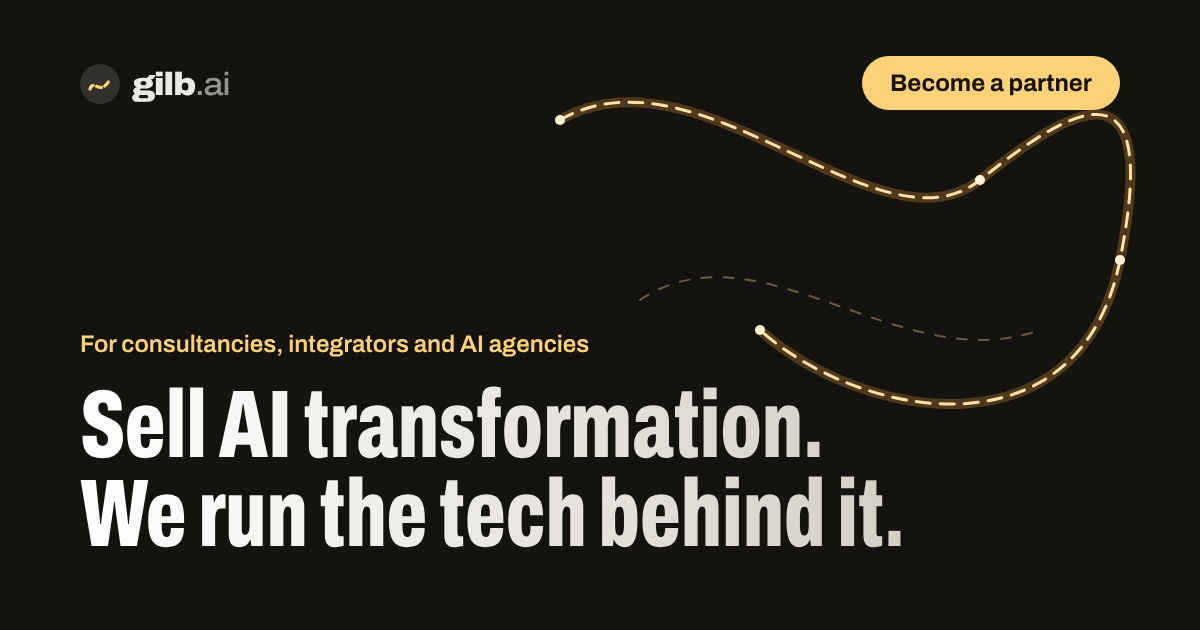
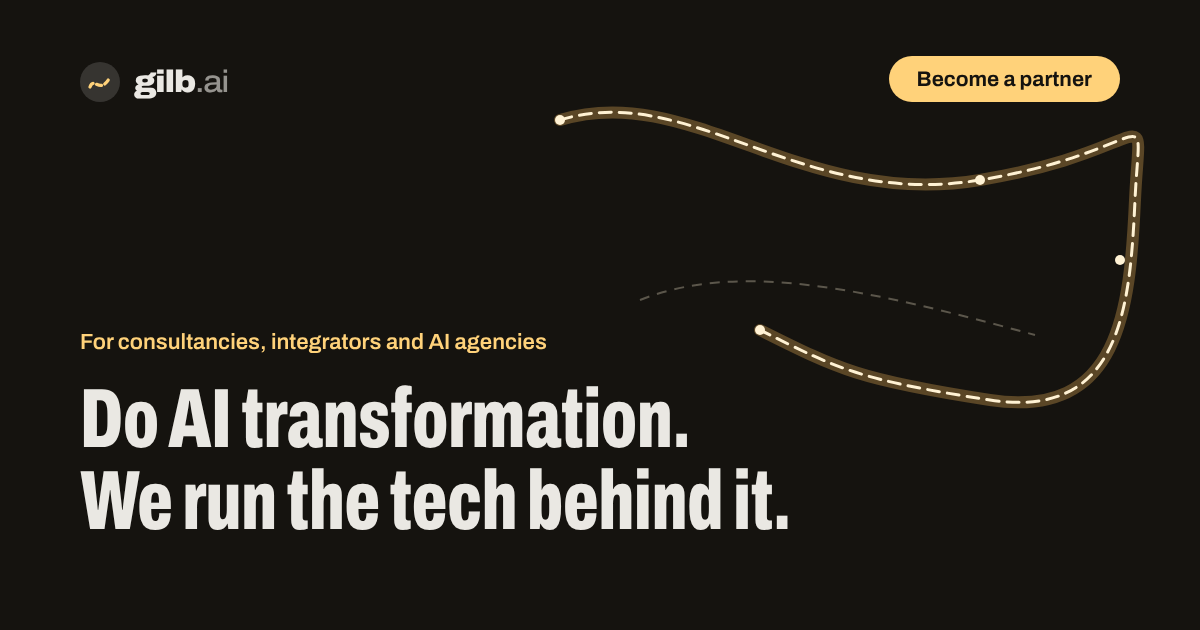
Home: headline 'Do AI transformation' (was 'Sell'), update meta and og image
Claude-Session: https://claude.ai/code/session_01SrGZP7QGAwvVCME352tcsu

diff --git a/index.html b/index.html
@@ -4,9 +4,9 @@
 <meta charset="utf-8">
 <meta name="viewport" content="width=device-width,initial-scale=1,viewport-fit=cover">
 <title>Gilb — the technical partner for AI transformation firms</title>
-<meta name="description" content="For consultancies, integrators and AI agencies. Sell AI transformation under your brand: Gilb runs discovery with Therblig and deploys and operates Company Brain. Become a partner.">
+<meta name="description" content="For consultancies, integrators and AI agencies. Do AI transformation under your brand: Gilb runs discovery with Therblig and deploys and operates Company Brain. Become a partner.">
 <link rel="canonical" href="https://gilb.ai/">
-<meta property="og:title" content="Gilb — sell AI transformation, we run the tech">
+<meta property="og:title" content="Gilb — do AI transformation, we run the tech">
 <meta property="og:description" content="For consultancies, integrators and AI agencies. Discovery, deployment and operations under your brand. You keep the client and the margin.">
 <meta property="og:url" content="https://gilb.ai/"><meta property="og:type" content="website">
 <meta property="og:image" content="https://gilb.ai/og.png"><meta property="og:image:width" content="1200"><meta property="og:image:height" content="630">
@@ -47,7 +47,7 @@
   <canvas id="plate" aria-hidden="true"></canvas>
   <div class="hero"><div class="wrap">
     <p class="for">For consultancies, integrators and AI agencies that run AI transformation</p>
-    <h1 id="hero-title">Sell AI transformation.<br>We run the tech <span class="nw">behind it.</span></h1>
+    <h1 id="hero-title">Do AI transformation.<br>We run the tech <span class="nw">behind it.</span></h1>
     <div class="hero-row">
       <div>
         <p class="lead">Discovery, deployment and operations under your brand. You keep the client, the price and the margin. No platform to build, no technical hires.</p>
